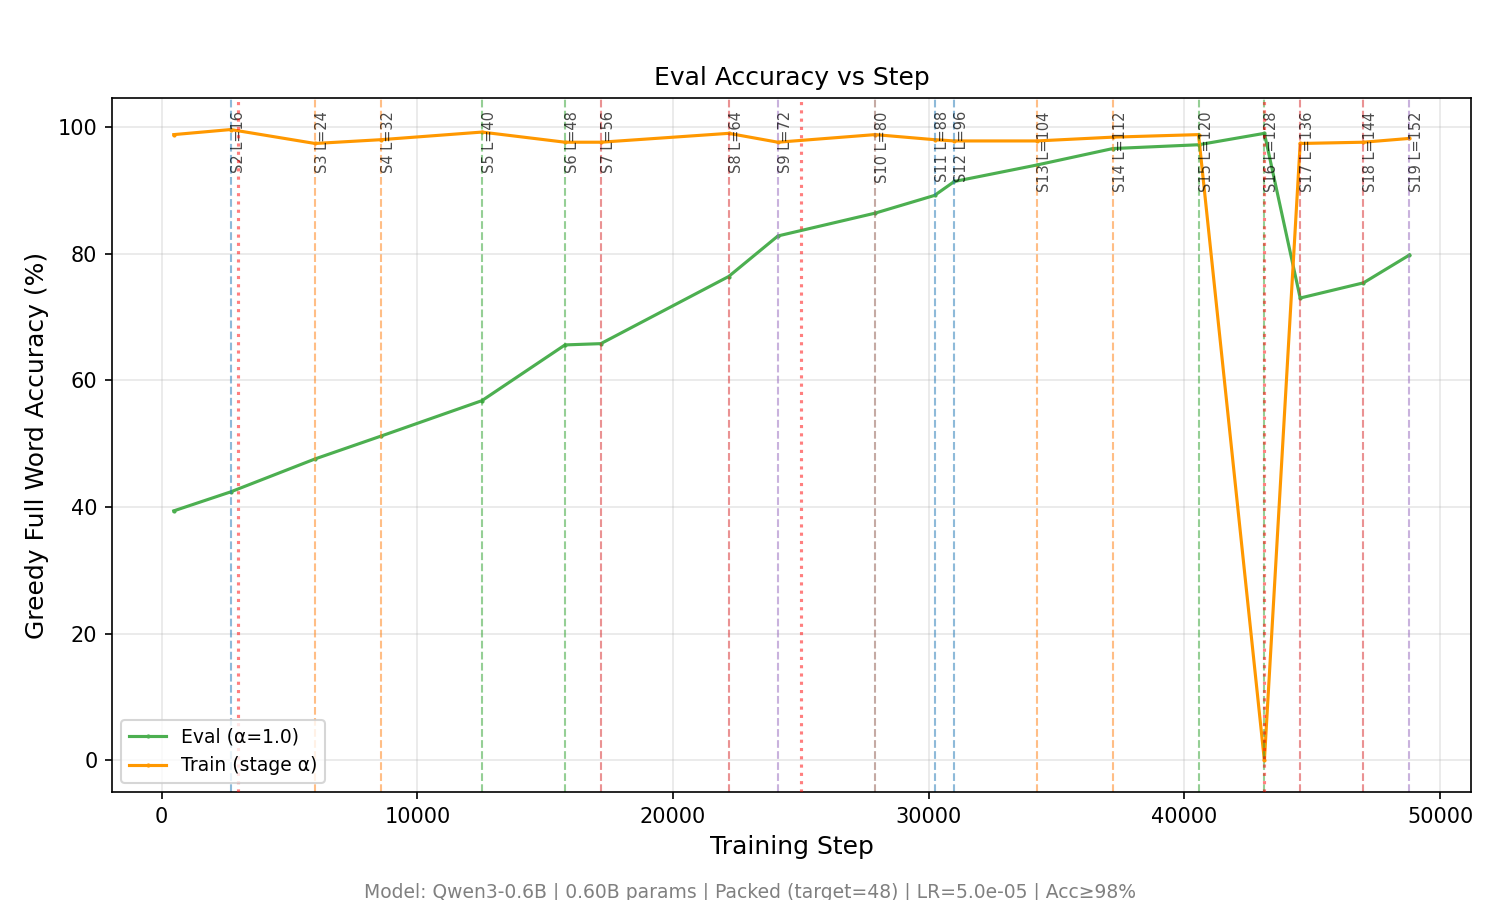
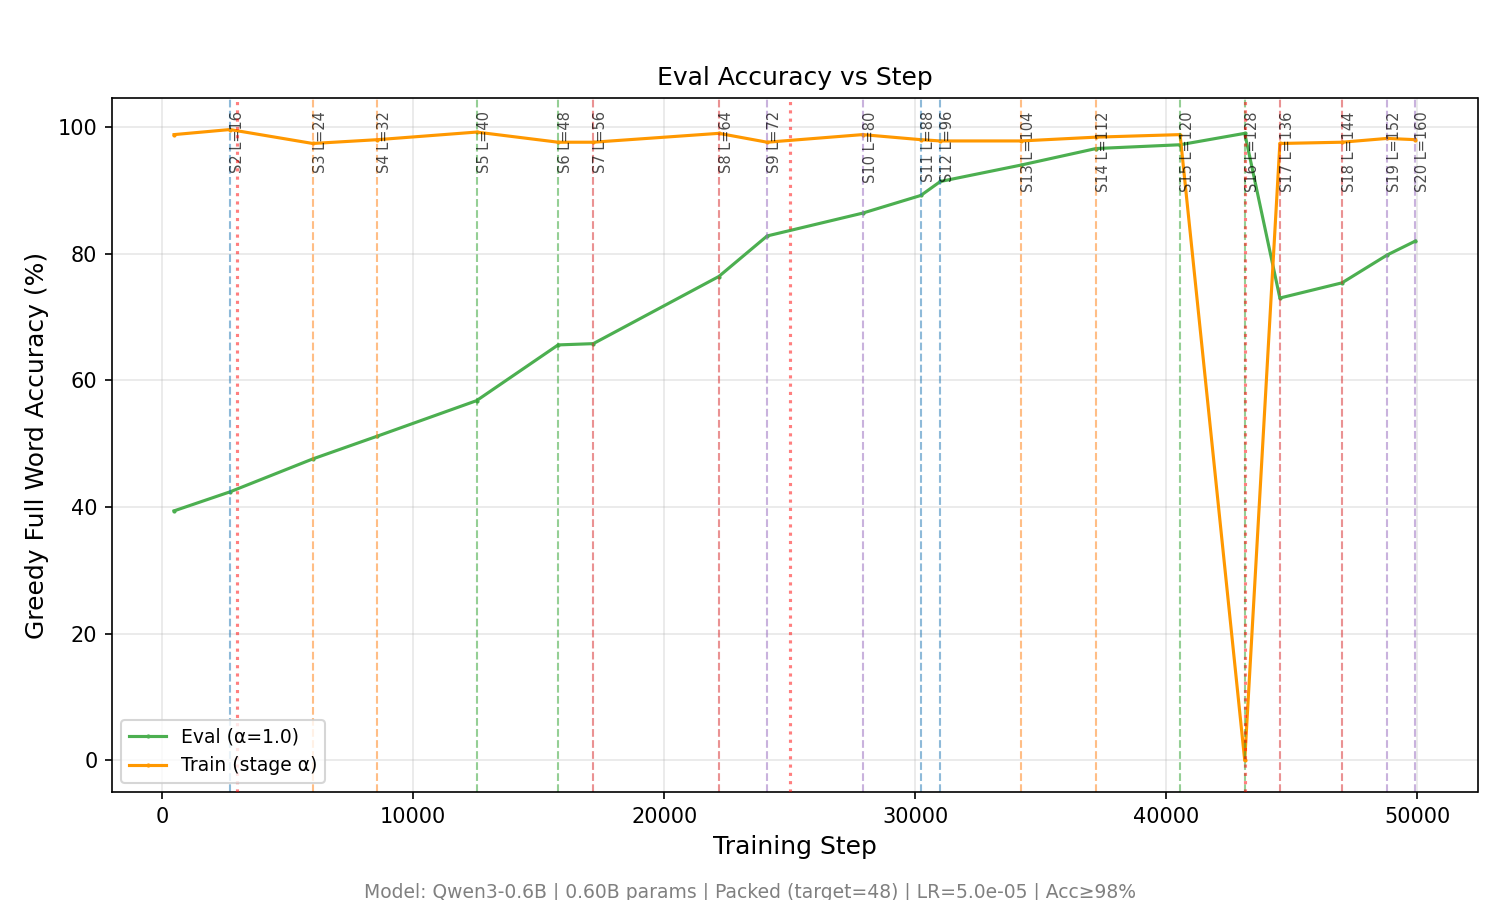
Update Exp1 PROGRESS.md and synced artifacts (2026-10-19 20:04 UTC)

diff --git a/PROGRESS.md b/PROGRESS.md
@@ -3,7 +3,7 @@
 **Base commit:** `da7b19c` (`main`)
 **Branch:** `jackierwzhang/exp1-qwen06b-lora-vs-fullft`
 **VMs:** `nl-exp1-spot-fullft` (`europe-west1-c`, deleted after completion), `nl-exp1-spot-r8` (`us-east4-a`, deleted after L=128 phase), `nl-exp1-spot-r64` (`europe-west1-c`, deleted after completion), `nl-exp1-spot-r256` (`a3-highgpu-4g`, 4x H100-80GB Spot, `us-east4-b`, running `LoRA R=8` `L=136..256`)
-**Last updated:** 2026-10-19 19:48 UTC
+**Last updated:** 2026-10-19 20:04 UTC
 
 ## Shared Configuration
 
@@ -26,11 +26,11 @@
 | Arm | Job ID | Mode | GPUs | Status | Step | Stage / $L$ | Rolling Full Acc | Rolling First Acc | Loss | PFLOPs | TFLOP/s | Wall Time | Est. Remaining |
 | :--- | :--- | :--- | :--- | :--- | ---: | :--- | ---: | ---: | ---: | ---: | ---: | ---: | :--- |
 | Full-FT | `exp1_qwen06b_fullft` | Full FT | 0,1,2,3 (Spot 4x H100: nl-exp1-spot-fullft, europe-west1-c) | Completed | 27570 | 16 (`L=128`) | 97.62% | 98.88% | 0.0163 | 116023.73 | 405.3 | 71.26h | 0.0h (Done) |
-| LoRA `R=8` | `exp1_qwen06b_lora_r8` | `--use_lora --lora_rank 8` (`alpha=16, dropout=0.1`) | 0,1,2,3 (Spot 4x H100: nl-exp1-spot-r256, us-east4-b) | Running | 49920 | 20/32 (`L=160`) | 97.38% | 98.12% | 0.0199 | 215964.37 | 234.1 | 188.85h | ~289.6h (stage-wt) / ~89.5h (318k PFLOPs ref) |
+| LoRA `R=8` | `exp1_qwen06b_lora_r8` | `--use_lora --lora_rank 8` (`alpha=16, dropout=0.1`) | 0,1,2,3 (Spot 4x H100: nl-exp1-spot-r256, us-east4-b) | Running | 49940 | 21/32 (`L=168`) | 96.75% | 97.75% | 0.0207 | 216138.00 | 234.8 | 189.07h | ~282.8h (stage-wt) / ~89.4h (318k PFLOPs ref) |
 | LoRA `R=64` | `exp1_qwen06b_lora_r64` | `--use_lora --lora_rank 64` (`alpha=128, dropout=0.1`) | 0,1,2,3 (Spot 4x H100: nl-exp1-spot-r64, europe-west1-c) | Completed | 31200 | 16 (`L=128`) | 98.00% | 98.75% | 0.0200 | 133558.81 | 219.6 | 124.37h | 0.0h (Done) |
 | LoRA `R=256` | `exp1_qwen06b_lora_r256` | `--use_lora --lora_rank 256` (`alpha=512, dropout=0.1`) | 0,1,2,3 (Spot 4x H100: nl-exp1-spot-r256, us-east4-b) | Stopped (Stage 14, L=112) | 41930 | 14 (`L=112`) | 94.50% | 95.50% | 0.0206 | 144783.59 | 159.0 | 185.86h | 0.0h (Stopped at L=112) |
 
-> **ETA Methodology & Overall Experiment 1 Completion (1 Active Arm `LoRA R=8` Extended to `L=256` on 4x Spot H100; `Full-FT` & `LoRA R=64` Completed at `L=128`; `LoRA R=256` Stopped at Stage 14 `L=112`):** `stage-wt` scales current wall time by remaining lookahead units across all 32 stages ($\sum_{k=1}^{32} k = 528$); `318k PFLOPs ref` scales the `82,000 PFLOPs` (`L=128`, 136 stage units) reference to 32 stages (`318,353 PFLOPs` to `L=256`) and divides remaining compute by the arm's measured `PFLOPs/h` rate. `LoRA R=8` (`L=256`) completion is estimated in **~289.6h (stage-wt) / ~89.5h (318k PFLOPs ref)**.
+> **ETA Methodology & Overall Experiment 1 Completion (1 Active Arm `LoRA R=8` Extended to `L=256` on 4x Spot H100; `Full-FT` & `LoRA R=64` Completed at `L=128`; `LoRA R=256` Stopped at Stage 14 `L=112`):** `stage-wt` scales current wall time by remaining lookahead units across all 32 stages ($\sum_{k=1}^{32} k = 528$); `318k PFLOPs ref` scales the `82,000 PFLOPs` (`L=128`, 136 stage units) reference to 32 stages (`318,353 PFLOPs` to `L=256`) and divides remaining compute by the arm's measured `PFLOPs/h` rate. `LoRA R=8` (`L=256`) completion is estimated in **~282.8h (stage-wt) / ~89.4h (318k PFLOPs ref)**.
 
 ## Stage Evaluation Summary (`stage_eval_history.json`)
 
@@ -71,6 +71,7 @@
 | LoRA `R=8` | 17 | 44525 | 136 | 0.535 | 0.1324 | 74.20% | 73.00% | 97.80% | 97.40% |
 | LoRA `R=8` | 18 | 47000 | 144 | 0.567 | 0.1357 | 76.40% | 75.40% | 97.60% | 97.60% |
 | LoRA `R=8` | 19 | 48800 | 152 | 0.598 | 0.1225 | 80.80% | 79.80% | 98.20% | 98.20% |
+| LoRA `R=8` | 20 | 49925 | 160 | 0.629 | 0.1008 | 82.20% | 82.00% | 98.00% | 98.00% |
 | LoRA `R=64` | 1 | 450 | 8 | 0.067 | 0.5967 | 39.40% | 39.40% | 98.80% | 98.80% |
 | LoRA `R=64` | 2 | 1300 | 16 | 0.130 | 0.3640 | 45.80% | 45.20% | 98.80% | 98.80% |
 | LoRA `R=64` | 3 | 2675 | 24 | 0.193 | 0.3256 | 51.20% | 51.00% | 99.20% | 99.20% |
